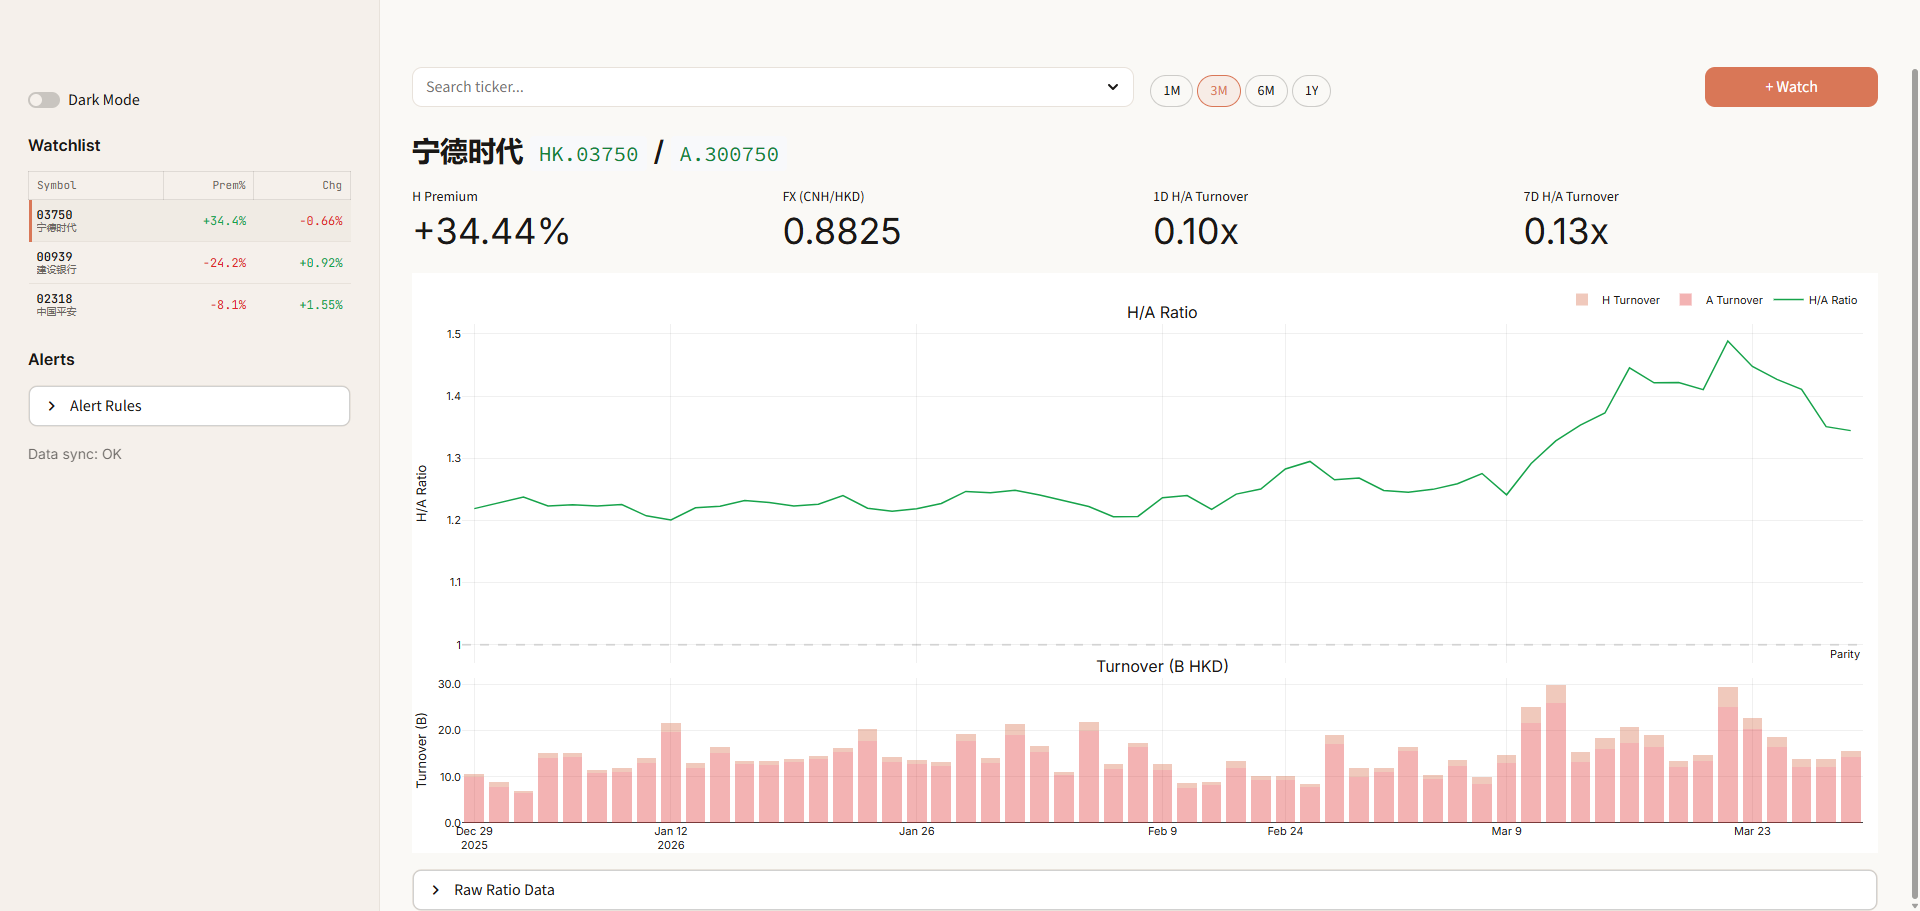
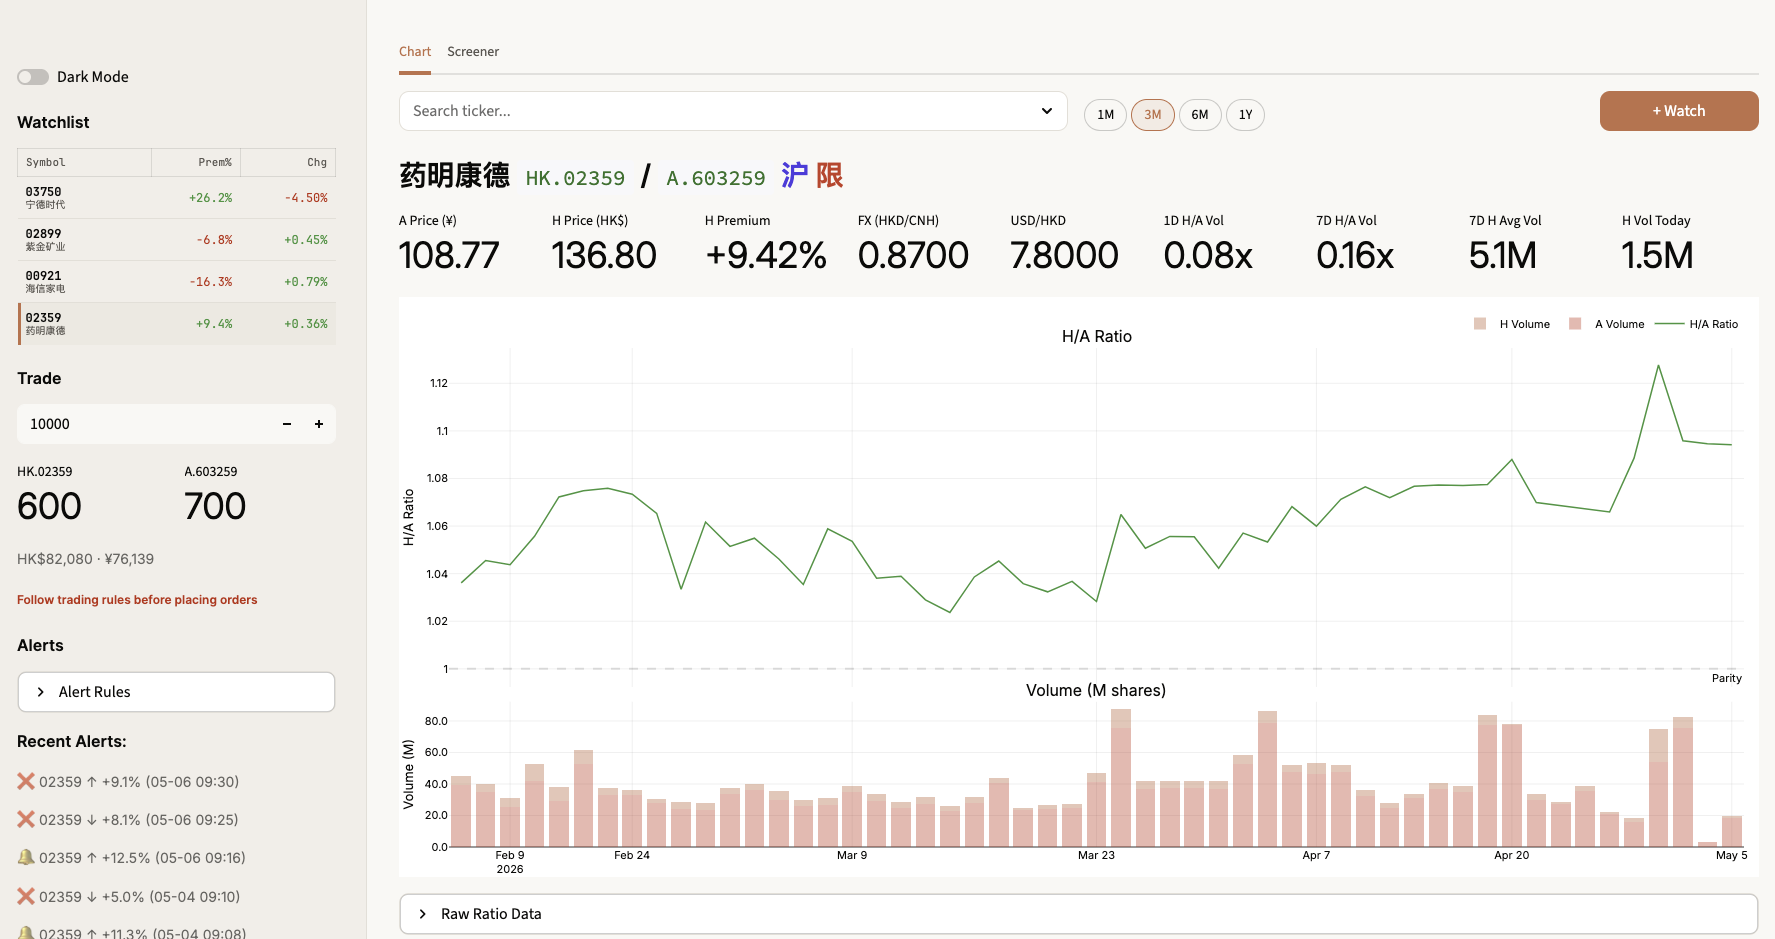
update readme

diff --git a/README.md b/README.md
@@ -10,8 +10,8 @@ Real-time monitor for A-share / H-share premium arbitrage opportunities across a
 - **Real-time premium monitoring** -- live H/A ratio and premium % updates every 5 seconds during market hours
 - **Historical charts** -- interactive line charts (Plotly) for A-share price, H-share price, and H/A premium ratio
 - **Premium screener** -- scan every active A/H pair at once to find the widest dislocations
-- **Telegram alerts** -- configurable threshold-based notifications when premium crosses user-defined levels
-- **FX rate tracking** -- live CNH/HKD rate from Yahoo Finance with SQLite caching and fallback sources
+- **Telegram alerts** -- configurable threshold notifications during the A/H overlap session (9:30--15:00 HKT)
+- **FX rate tracking** -- live HKD/CNH and USD/HKD rates from Yahoo Finance with SQLite caching and fallbacks
 - **Configurable watchlist** -- add/remove pairs from the sidebar; persisted in local SQLite
 
 ## Architecture
@@ -21,8 +21,8 @@ The project uses a hybrid data architecture because Futu OpenAPI does not serve 
 | Component | Source | Notes |
 |-----------|--------|-------|
 | H-share K-line & real-time | Futu OpenAPI (OpenD gateway) | Unadjusted prices; AKShare fallback |
-| A-share K-line & real-time | AKShare + Sina/Tencent HTTP | Tencent K-line source; Sina real-time |
-| FX rate (CNH/HKD) | Yahoo Finance | AKShare backup; cached daily in SQLite |
+| A-share K-line & real-time | AKShare + Sina/Tencent HTTP | Tencent K-line source; Sina real-time; A-share trading calendar skips mainland holidays |
+| FX rates (HKD/CNH, USD/HKD) | Yahoo Finance | HKD/CNH has AKShare backup and daily SQLite cache; USD/HKD has 1-hour SQLite spot cache |
 | Dashboard | Streamlit + Plotly | Fragment-based live updates (`run_every=5s`) |
 | Storage | SQLite (`~/.ah-arb/data.db`) | Watchlist, FX cache, K-line cache, sync metadata |
 | Scheduling | APScheduler | Background sync jobs for historical data |
@@ -79,7 +79,7 @@ All settings are loaded via `python-dotenv` in `src/config/settings.py`.
 streamlit run app.py
 ```
 
-The dashboard auto-refreshes every 5 seconds during market hours (9:15--16:15 UTC+8, weekdays). Outside market hours, only historical data is displayed.
+The dashboard uses Streamlit fragments for live updates: watchlist every 5 seconds, chart every 10 seconds, and screener every 20 seconds. Telegram premium alerts are sent only during the true A/H arbitrage overlap window (9:30--15:00 UTC+8, weekdays).
 
 - **A-share market hours**: 9:30--15:00 (UTC+8)
 - **H-share market hours**: 9:30--16:10 (UTC+8)
@@ -96,7 +96,7 @@ All calculations use **unadjusted prices** to ensure accurate cross-market compa
 
 A ratio > 1 (positive premium %) means the H-share trades at a premium to its A-share counterpart.
 
-The FX rate convention is CNH per 1 HKD (approximately 0.92).
+The FX label is HKD/CNH, quoted as CNH per 1 HKD (approximately 0.92).
 
 ## Project Structure
 
@@ -155,8 +155,8 @@ The project runs on both Windows and macOS. All file paths use `pathlib.Path` fo
 - **实时溢价监控** -- 盘中每 5 秒刷新 H/A 比值和溢价率
 - **历史走势图** -- 交互式折线图（Plotly），展示 A 股价格、H 股价格及 H/A 溢价比值
 - **溢价筛选器** -- 一键扫描全部 A/H 股，找出偏离最大的标的
-- **Telegram 预警** -- 溢价突破自定义阈值时推送通知
-- **汇率追踪** -- Yahoo Finance 实时离岸人民币/港币汇率，SQLite 缓存 + 多源备用
+- **Telegram 预警** -- 仅在 A/H 共同套利时段（HKT 9:30--15:00）推送阈值突破通知
+- **汇率追踪** -- Yahoo Finance 实时 HKD/CNH 与 USD/HKD 汇率，SQLite 缓存 + 多源备用
 - **自选股管理** -- 侧边栏添加/删除，本地 SQLite 持久化
 
 ## 数据架构
@@ -166,8 +166,8 @@ The project runs on both Windows and macOS. All file paths use `pathlib.Path` fo
 | 组件 | 数据源 | 说明 |
 |------|--------|------|
 | H 股行情（历史 + 实时） | 富途 OpenAPI（OpenD 网关） | 不复权价格；AKShare 备用 |
-| A 股行情（历史 + 实时） | AKShare + 新浪/腾讯 HTTP | 腾讯历史 K 线；新浪实时快照 |
-| 汇率（CNH/HKD） | Yahoo Finance | AKShare 备用；SQLite 日缓存 |
+| A 股行情（历史 + 实时） | AKShare + 新浪/腾讯 HTTP | 腾讯历史 K 线；新浪实时快照；A 股交易日历跳过内地假期 |
+| 汇率（HKD/CNH、USD/HKD） | Yahoo Finance | HKD/CNH 有 AKShare 备用并按日缓存；USD/HKD 使用 1 小时 SQLite spot 缓存 |
 | 前端 | Streamlit + Plotly | Fragment 局部刷新（`run_every=5s`） |
 | 存储 | SQLite（`~/.ah-arb/data.db`） | 自选股、汇率缓存、K 线缓存、同步元数据 |
 | 调度 | APScheduler | 后台历史数据同步任务 |
@@ -222,7 +222,7 @@ OPEND_PORT=11111
 streamlit run app.py
 ```
 
-盘中（UTC+8 9:15--16:15 工作日）每 5 秒自动刷新；非盘中时间仅展示历史数据。
+前端使用 Streamlit fragments 局部刷新：自选股每 5 秒、图表每 10 秒、筛选器每 20 秒。Telegram 溢价预警仅在真正 A/H 套利重叠时段（UTC+8 9:30--15:00，工作日）发送。
 
 - **A 股交易时段**：9:30--15:00（UTC+8）
 - **港股交易时段**：9:30--16:10（UTC+8）
@@ -236,7 +236,7 @@ streamlit run app.py
 | H/A 比值 | `(H股港币价 * 每港币离岸人民币) / A股人民币价` |
 | H 股溢价率 | `(比值 - 1) * 100%` |
 
-比值 > 1（溢价率为正）表示 H 股相对 A 股存在溢价。汇率约定为每 1 港币兑离岸人民币（约 0.92）。
+比值 > 1（溢价率为正）表示 H 股相对 A 股存在溢价。汇率显示为 HKD/CNH，约定为每 1 港币兑离岸人民币（约 0.92）。
 
 ## 开发
 
